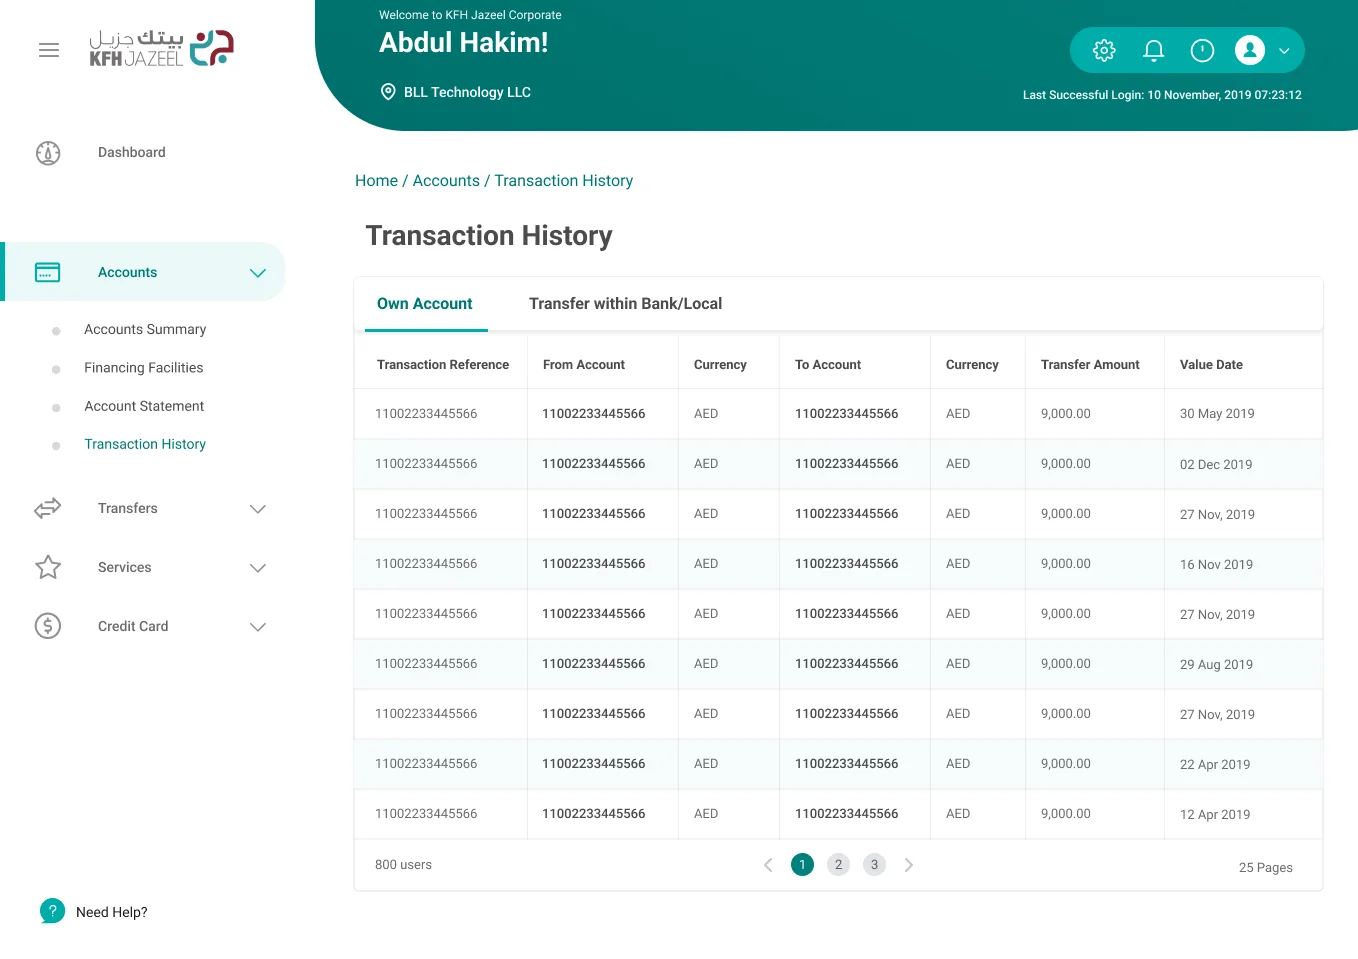
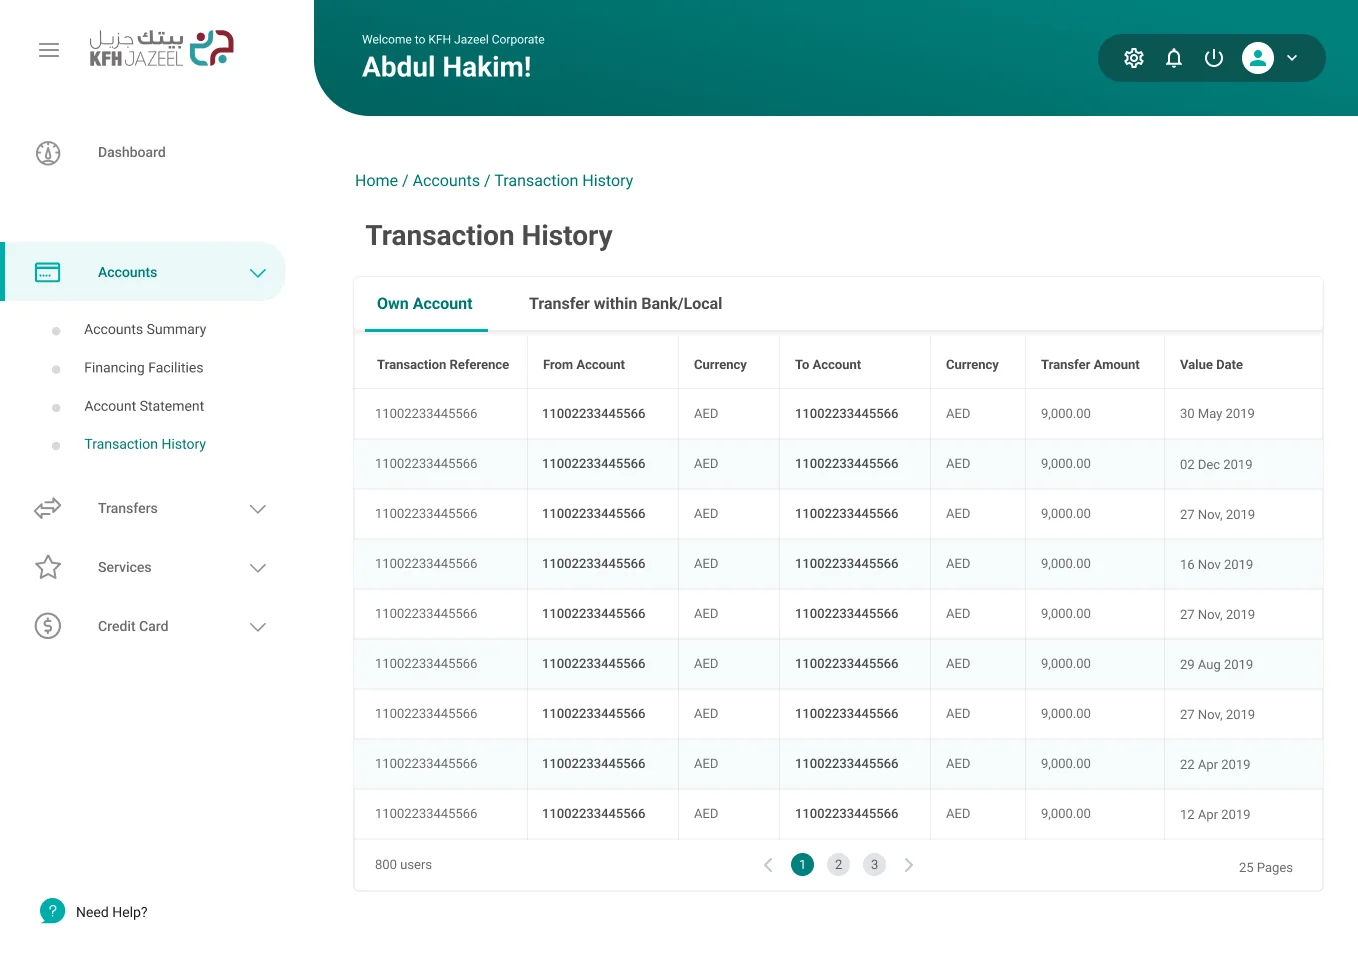
KFH case: refresh Final interface screens (new header) and order them by customer journey
Sign up → forgot password → dashboard → accounts summary → account statement → financing facilities → transaction history → own-account transfer → account opening.

Claude-Session: https://claude.ai/code/session_019Eq9Umn9RXjDBUD6C53TDg

Changed region(s): [[0.2165, 0.0, 1.0, 0.1512]]

diff --git a/site.6a742512.js b/site.6a742512.js
@@ -4299,15 +4299,15 @@ document.addEventListener('click',event=>{
       'Before/image 91.webp'
     ],
     ui: [
+      'final/kfh-sign-up.webp',
+      'final/kfh-forgot-password.webp',
       'final/kfh-dashboard.webp',
       'final/kfh-accounts-summary.webp',
       'final/kfh-account-statement.webp',
       'final/kfh-financing-facilities.webp',
       'final/kfh-transaction-history.webp',
       'final/kfh-transfer-own-account.webp',
-      'final/kfh-account-opening.webp',
-      'final/kfh-sign-up.webp',
-      'final/kfh-forgot-password.webp'
+      'final/kfh-account-opening.webp'
     ],
     heatmaps: ['optimized/heatmap-validation.jpg'],
     mobile: ['optimized/mobile-preview.jpg']
@@ -4359,15 +4359,15 @@ document.addEventListener('click',event=>{
     system: ['KFH Jazeel design system structure', 'Kapple design system foundations and component architecture'],
     before: Array.from({ length: 2 }, (_, index) => `Original KFH Jazeel interface, screen ${index + 1} of 2`),
     ui: [
+      'KFH Jazeel Sign up screen with mobile number and coupon code',
+      'KFH Jazeel Forgot password screen',
       'KFH Jazeel Dashboard with balance, pending authorisations and recent operations',
       'KFH Jazeel Accounts summary listing each account with its balance',
       'KFH Jazeel Account statement request with account and duration filters',
       'KFH Jazeel Financing facilities table',
       'KFH Jazeel Transaction history table with own-account and within-bank tabs',
       'KFH Jazeel Own account transfer form with a live summary of the steps',
-      'KFH Jazeel Account opening request form',
-      'KFH Jazeel Sign up screen with mobile number and coupon code',
-      'KFH Jazeel Forgot password screen'
+      'KFH Jazeel Account opening request form'
     ],
     heatmaps: ['Attention heatmap for the redesigned KFH Jazeel sign in experience'],
     mobile: ['Preview of the forthcoming KFH Jazeel mobile case study']
@@ -4388,7 +4388,7 @@ document.addEventListener('click',event=>{
     version: 'One shared source for the latest design work.',
     system: 'The foundations and components that helped the team work at scale.',
     before: 'The original interface before we redesigned it.',
-    ui: 'The finished product across its main journeys. Use the arrows, trackpad, or swipe to move between screens.',
+    ui: 'The finished product in the order a customer meets it: sign in, dashboard, accounts, then transfers and services. Use the arrows, trackpad, or swipe to move between screens.',
     heatmaps: 'Attention moved towards the main task and action.',
     mobile: 'A separate mobile case study is in progress.'
   };
@@ -5204,7 +5204,7 @@ document.addEventListener('click',event=>{
     'Version control':['optimized/version-control.jpg'],
     'Design system':['ds.webp','DS Kapple.webp'],
     'Before the redesign':['Before/image 90.webp','Before/image 91.webp'],
-    'Final interface':['final/kfh-dashboard.webp','final/kfh-accounts-summary.webp','final/kfh-account-statement.webp','final/kfh-financing-facilities.webp','final/kfh-transaction-history.webp','final/kfh-transfer-own-account.webp','final/kfh-account-opening.webp','final/kfh-sign-up.webp','final/kfh-forgot-password.webp'],
+    'Final interface':['final/kfh-sign-up.webp','final/kfh-forgot-password.webp','final/kfh-dashboard.webp','final/kfh-accounts-summary.webp','final/kfh-account-statement.webp','final/kfh-financing-facilities.webp','final/kfh-transaction-history.webp','final/kfh-transfer-own-account.webp','final/kfh-account-opening.webp'],
     'Heatmaps':['optimized/heatmap-validation.jpg'],
     'Design iterations after launch':['optimized/iterative-progress-poster.jpg'],
     'KFH Jazeel mobile case study':['optimized/mobile-preview.jpg']

diff --git a/kfh-media.js b/kfh-media.js
@@ -38,15 +38,15 @@
       'Before/image 91.webp'
     ],
     ui: [
+      'final/kfh-sign-up.webp',
+      'final/kfh-forgot-password.webp',
       'final/kfh-dashboard.webp',
       'final/kfh-accounts-summary.webp',
       'final/kfh-account-statement.webp',
       'final/kfh-financing-facilities.webp',
       'final/kfh-transaction-history.webp',
       'final/kfh-transfer-own-account.webp',
-      'final/kfh-account-opening.webp',
-      'final/kfh-sign-up.webp',
-      'final/kfh-forgot-password.webp'
+      'final/kfh-account-opening.webp'
     ],
     heatmaps: ['optimized/heatmap-validation.jpg'],
     mobile: ['optimized/mobile-preview.jpg']
@@ -98,15 +98,15 @@
     system: ['KFH Jazeel design system structure', 'Kapple design system foundations and component architecture'],
     before: Array.from({ length: 2 }, (_, index) => `Original KFH Jazeel interface, screen ${index + 1} of 2`),
     ui: [
+      'KFH Jazeel Sign up screen with mobile number and coupon code',
+      'KFH Jazeel Forgot password screen',
       'KFH Jazeel Dashboard with balance, pending authorisations and recent operations',
       'KFH Jazeel Accounts summary listing each account with its balance',
       'KFH Jazeel Account statement request with account and duration filters',
       'KFH Jazeel Financing facilities table',
       'KFH Jazeel Transaction history table with own-account and within-bank tabs',
       'KFH Jazeel Own account transfer form with a live summary of the steps',
-      'KFH Jazeel Account opening request form',
-      'KFH Jazeel Sign up screen with mobile number and coupon code',
-      'KFH Jazeel Forgot password screen'
+      'KFH Jazeel Account opening request form'
     ],
     heatmaps: ['Attention heatmap for the redesigned KFH Jazeel sign in experience'],
     mobile: ['Preview of the forthcoming KFH Jazeel mobile case study']
@@ -127,7 +127,7 @@
     version: 'One shared source for the latest design work.',
     system: 'The foundations and components that helped the team work at scale.',
     before: 'The original interface before we redesigned it.',
-    ui: 'The finished product across its main journeys. Use the arrows, trackpad, or swipe to move between screens.',
+    ui: 'The finished product in the order a customer meets it: sign in, dashboard, accounts, then transfers and services. Use the arrows, trackpad, or swipe to move between screens.',
     heatmaps: 'Attention moved towards the main task and action.',
     mobile: 'A separate mobile case study is in progress.'
   };

diff --git a/kfh-editorial-redesign.js b/kfh-editorial-redesign.js
@@ -14,7 +14,7 @@
     'Version control':['optimized/version-control.jpg'],
     'Design system':['ds.webp','DS Kapple.webp'],
     'Before the redesign':['Before/image 90.webp','Before/image 91.webp'],
-    'Final interface':['final/kfh-dashboard.webp','final/kfh-accounts-summary.webp','final/kfh-account-statement.webp','final/kfh-financing-facilities.webp','final/kfh-transaction-history.webp','final/kfh-transfer-own-account.webp','final/kfh-account-opening.webp','final/kfh-sign-up.webp','final/kfh-forgot-password.webp'],
+    'Final interface':['final/kfh-sign-up.webp','final/kfh-forgot-password.webp','final/kfh-dashboard.webp','final/kfh-accounts-summary.webp','final/kfh-account-statement.webp','final/kfh-financing-facilities.webp','final/kfh-transaction-history.webp','final/kfh-transfer-own-account.webp','final/kfh-account-opening.webp'],
     'Heatmaps':['optimized/heatmap-validation.jpg'],
     'Design iterations after launch':['optimized/iterative-progress-poster.jpg'],
     'KFH Jazeel mobile case study':['optimized/mobile-preview.jpg']

diff --git a/index.html b/index.html
@@ -118,6 +118,6 @@
     tick();setInterval(tick,30000);
   })();
   </script>
-  <script src="site.2224be37.js"></script>
+  <script src="site.6a742512.js"></script>
 </body>
 </html>
